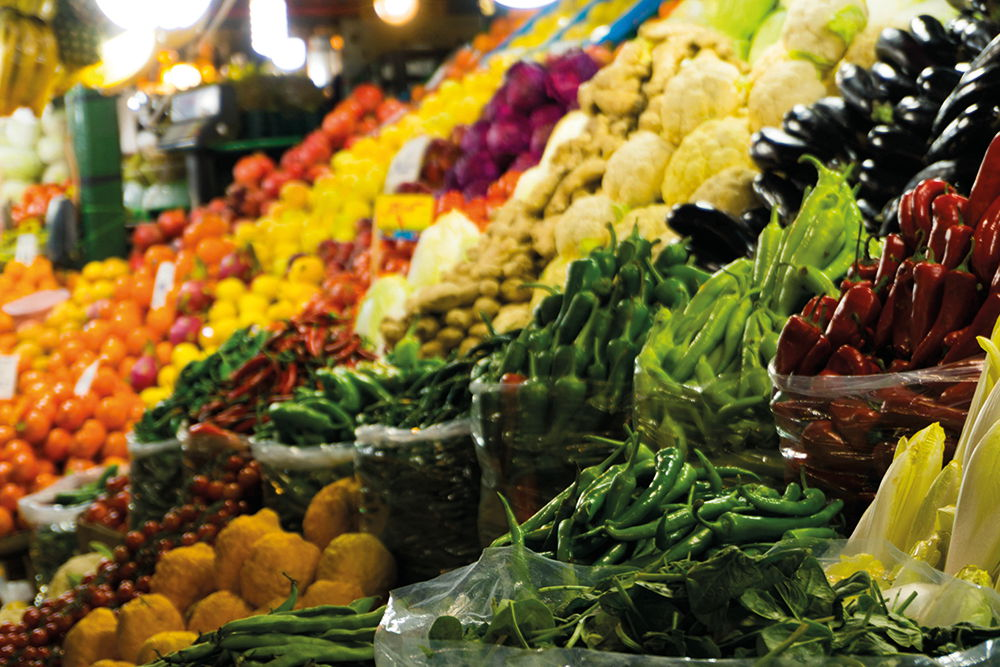
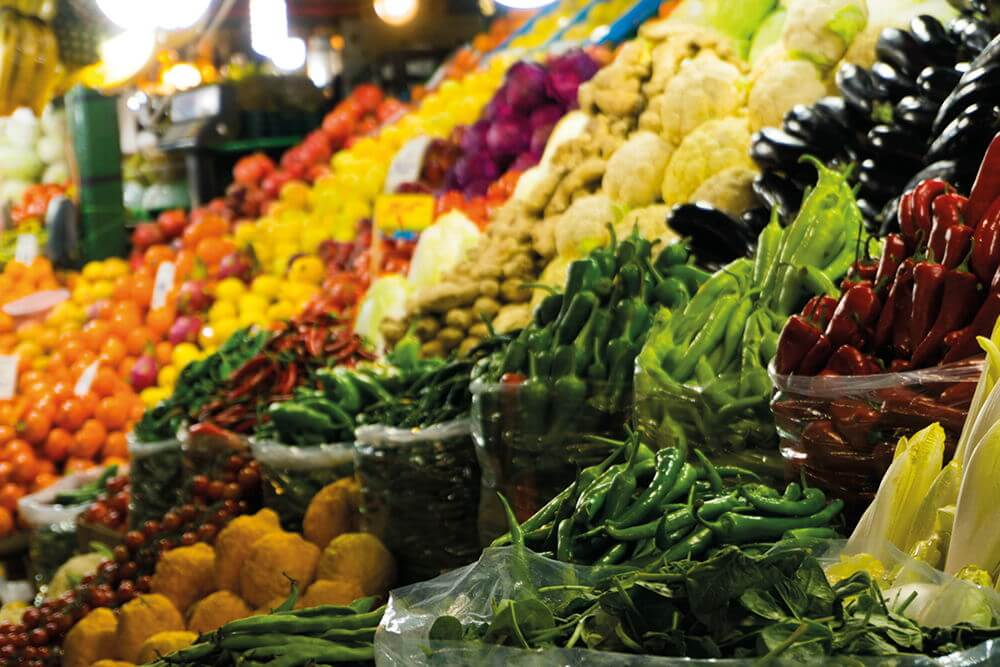
optimizando imagenes, agregando links de regia y cambiando el titulo en index

diff --git a/src/app/shared/components/header/header.component.html b/src/app/shared/components/header/header.component.html
@@ -49,6 +49,7 @@
                         <a class="dropdown-item" routerLink="/productos/categoria/semillas">Semillas</a>
                         <a class="dropdown-item" routerLink="/productos/categoria/especias">Especias</a>
                         <a class="dropdown-item" routerLink="/productos/categoria/jugos">Jugos</a>
+                        <a class="dropdown-item" routerLink="/productos/categoria/regia">Regia</a>
                         <a class="dropdown-item" routerLink="/productos/categoria/combos">Combos</a>
                     </div>
                 </li>
@@ -73,23 +74,10 @@
                     </div>
                 </li>
 
-
                 <li class="nav-item icono-buscar"><a routerLink="/busqueda/q=" class="nav-link"><i
                             class="fas fa-search"></i></a>
                 </li>
             </ul>
-
-            <!-- <div class="form-inline my-2 my-lg-0">
-                <input class="form-control mr-sm-2" type="search" placeholder="Search" aria-label="Search">
-                <button class="btn btn-outline-success my-2 my-sm-0" type="submit">Buscar</button>
-            </div> -->
-            <!-- <div class="search-input">
-                <input #input (keyup.enter)="buscar( input.value )" type="text" placeholder="Buscar producto">
-                <div (click)="buscar(input.value)" class="icon-search pointer">
-                    <i class="fas fa-search"></i>
-                </div>
-            </div> -->
-
         </div>
     </div>
 </nav>

diff --git a/src/app/shared/components/sidebar/sidebar.component.ts b/src/app/shared/components/sidebar/sidebar.component.ts
@@ -1,5 +1,4 @@
 import { Component, OnInit } from '@angular/core';
-import { from } from 'rxjs';
 
 @Component({
   selector: 'app-sidebar',
@@ -8,11 +7,12 @@ import { from } from 'rxjs';
 })
 export class SidebarComponent implements OnInit {
   categories = [
-    'frutas',
     'verduras',
+    'frutas',
     'semillas',
     'especias',
     'jugos',
+    'regia',
     'combos',
   ];
   constructor() {}

diff --git a/src/app/pages/page-not-found/components/page-not-found/page-not-found.component.html b/src/app/pages/page-not-found/components/page-not-found/page-not-found.component.html
@@ -3,7 +3,7 @@
     <div class="content">
         <img src="assets/images/page-not-found.png" alt="">
         <h2>¡OOOPS! página no encontrada</h2>
-        <a href="#" class="btn btn-info">Ver productos</a>
+        <a routerLink="/productos/categoria/verduras" class="btn btn-info">Ver productos</a>
     </div>
     <!-- <img src="assets/images/page-not-found.png" alt=""> -->
 </div>

diff --git a/src/app/pages/products/products.routing.ts b/src/app/pages/products/products.routing.ts
@@ -14,7 +14,7 @@ const routes: Routes = [
       { path: 'combos', component: ProductComponent },
       { path: 'jugos', component: ProductComponent },
       { path: 'semillas', component: ProductComponent },
-      // { path: 'aceites', component: ProductComponent },
+      { path: 'regia', component: ProductComponent },
     ],
   },
 ];

diff --git a/src/app/pages/home/components/banner/banner.component.ts b/src/app/pages/home/components/banner/banner.component.ts
@@ -19,7 +19,7 @@ export class BannerComponent implements OnInit, AfterViewInit {
       subtitle: 'Precios accesibles, lo mejor para tí',
     },
     {
-      image: 'assets/images/bg_4.jpg',
+      image: 'assets/images/bg_5.jpg',
       title: 'Alimentos 100% frescos',
       subtitle: 'Precios accesible, lo mejor para tí',
     },

diff --git a/src/index.html b/src/index.html
@@ -3,7 +3,7 @@
 
 <head>
   <meta charset="utf-8">
-  <title>Greenfood</title>
+  <title>Natural Go</title>
   <!-- <base href="/"> -->
   <meta name="viewport" content="width=device-width, initial-scale=1">
   <link rel="icon" type="image/x-icon" href="favicon.ico">
